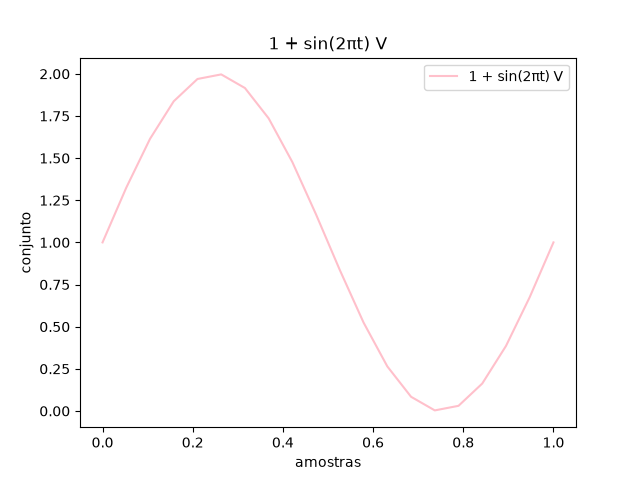
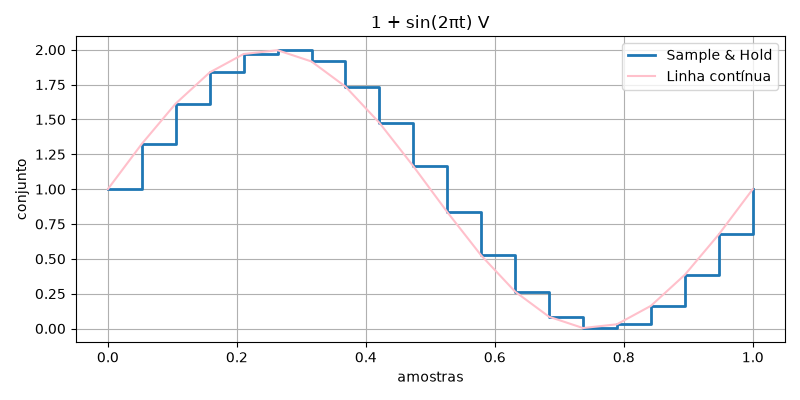
feat: lista01 feita

diff --git a/listas/lista01/ex02.py b/listas/lista01/ex02.py
@@ -1,3 +1,36 @@
 import numpy as np
-import matplotlib.pyplot as plot
+import matplotlib.pyplot as plt
 
+t = np.linspace(0, 1, num=20)
+conjunto = 1 + np.sin(2 * np.pi * t)
+
+# tamanho de cada nível:
+# Vref = 2V
+# Usa 4 bits para descobrir a quantidade de níveis, então: 2**4 = 16
+# tamanho de cada nível => tamanho = Vref / qtd. níveis
+# 2 / 16 = 0.125
+tamanhoNivel = 0.125
+
+niveisQuantizacao = np.round(conjunto / tamanhoNivel).astype(int)
+niveisQuantizacao = np.clip(niveisQuantizacao, 0, 15) ## importante para a questão 3
+
+# plot gráfico A
+plt.step(t, niveisQuantizacao, where='post')
+plt.xlabel('Tempo contínuo')
+plt.ylabel('Níveis de quantização')
+plt.title('Gráfico A - Níveis de Quantização')
+plt.grid(True)
+plt.tight_layout()
+plt.legend()
+plt.show()
+
+# plot gráfico B
+tensaoNivel = niveisQuantizacao * tamanhoNivel
+plt.step(t, tensaoNivel, where='post')
+plt.xlabel('Tempo contínuo')
+plt.ylabel('Valores de tensão correspondentes aos níveis (em Volts)')
+plt.title('Gráfico B - Valores de tensão em cada nível')
+plt.grid(True)
+plt.tight_layout()
+plt.legend()
+plt.show()

diff --git a/listas/lista01/ex04.py b/listas/lista01/ex04.py
@@ -1,0 +1,33 @@
+import numpy as np
+import matplotlib.pyplot as plt
+from ex02 import tensaoNivel, t
+
+# os índices de uma lista começam em 0,
+# já que o último número do meu RA é 2, 
+# então o segundo elemento é a posição 1.
+ 
+# Segunda amostra: 1011
+# Trocando um dos quatro bits:
+# 1011 -> 1010, alterei o último bit, o qual estava 1 e alterei para 0
+
+decimal = int("1010", 2)
+tensaoAlterada = decimal * 0.125
+tensaoNivelOriginal = tensaoNivel.copy()
+tensaoNivel[1] = tensaoAlterada
+
+plt.figure(figsize=(8, 4))
+
+# sinal original - Q2b
+plt.step(t, tensaoNivelOriginal, where='post', label='Original -Q2b', color='blue')
+
+# sinal alterado - Q4
+plt.step(t, tensaoNivel, where='post', label='Alterado - Q4', color='red')
+
+# plot 
+plt.xlabel('Tempo contínuo')
+plt.ylabel('Valores de tensão correspondentes aos níveis (em Volts)')
+plt.title('Comparação: sinal original x sinal com perturbação na 2ª amostra')
+plt.grid(True)
+plt.tight_layout()
+plt.legend()
+plt.show()

diff --git a/listas/lista01/ex01.py b/listas/lista01/ex01.py
@@ -5,11 +5,17 @@ import matplotlib.pyplot as plt
 t = np.linspace(0, 1, num=20)
 conjunto = 1 + np.sin(2 * np.pi * t)
 
+# sample and hold
+plt.figure(figsize=(8, 4)) # indica o tamanho da figura
+plt.step(t, conjunto, where='post', label='Sample & Hold', linewidth=2)
+
 # plot
-plt.plot(t, conjunto, label='1 + sin(2πt) V', color='pink')
+plt.plot(t, conjunto, label='Linha contínua', color='pink')
 
 plt.xlabel('amostras')
 plt.ylabel('conjunto')
 plt.title('1 + sin(2πt) V')
+plt.grid(True) # coloca grade no fundo do gráfico
+plt.tight_layout() # organiza os elementos para não ficarem cortados
 plt.legend()
 plt.show()

diff --git a/listas/lista01/ex03.py b/listas/lista01/ex03.py
@@ -1,0 +1,9 @@
+import numpy as np
+from ex02 import niveisQuantizacao
+
+conversaoBinario = np.array([np.binary_repr(num, 4) for num in niveisQuantizacao])
+concatenacao = "".join(conversaoBinario)
+
+print(concatenacao)
+# resultado: 
+# 10001011110111111111111111111110110010010111010000100001000000000001001101011000
